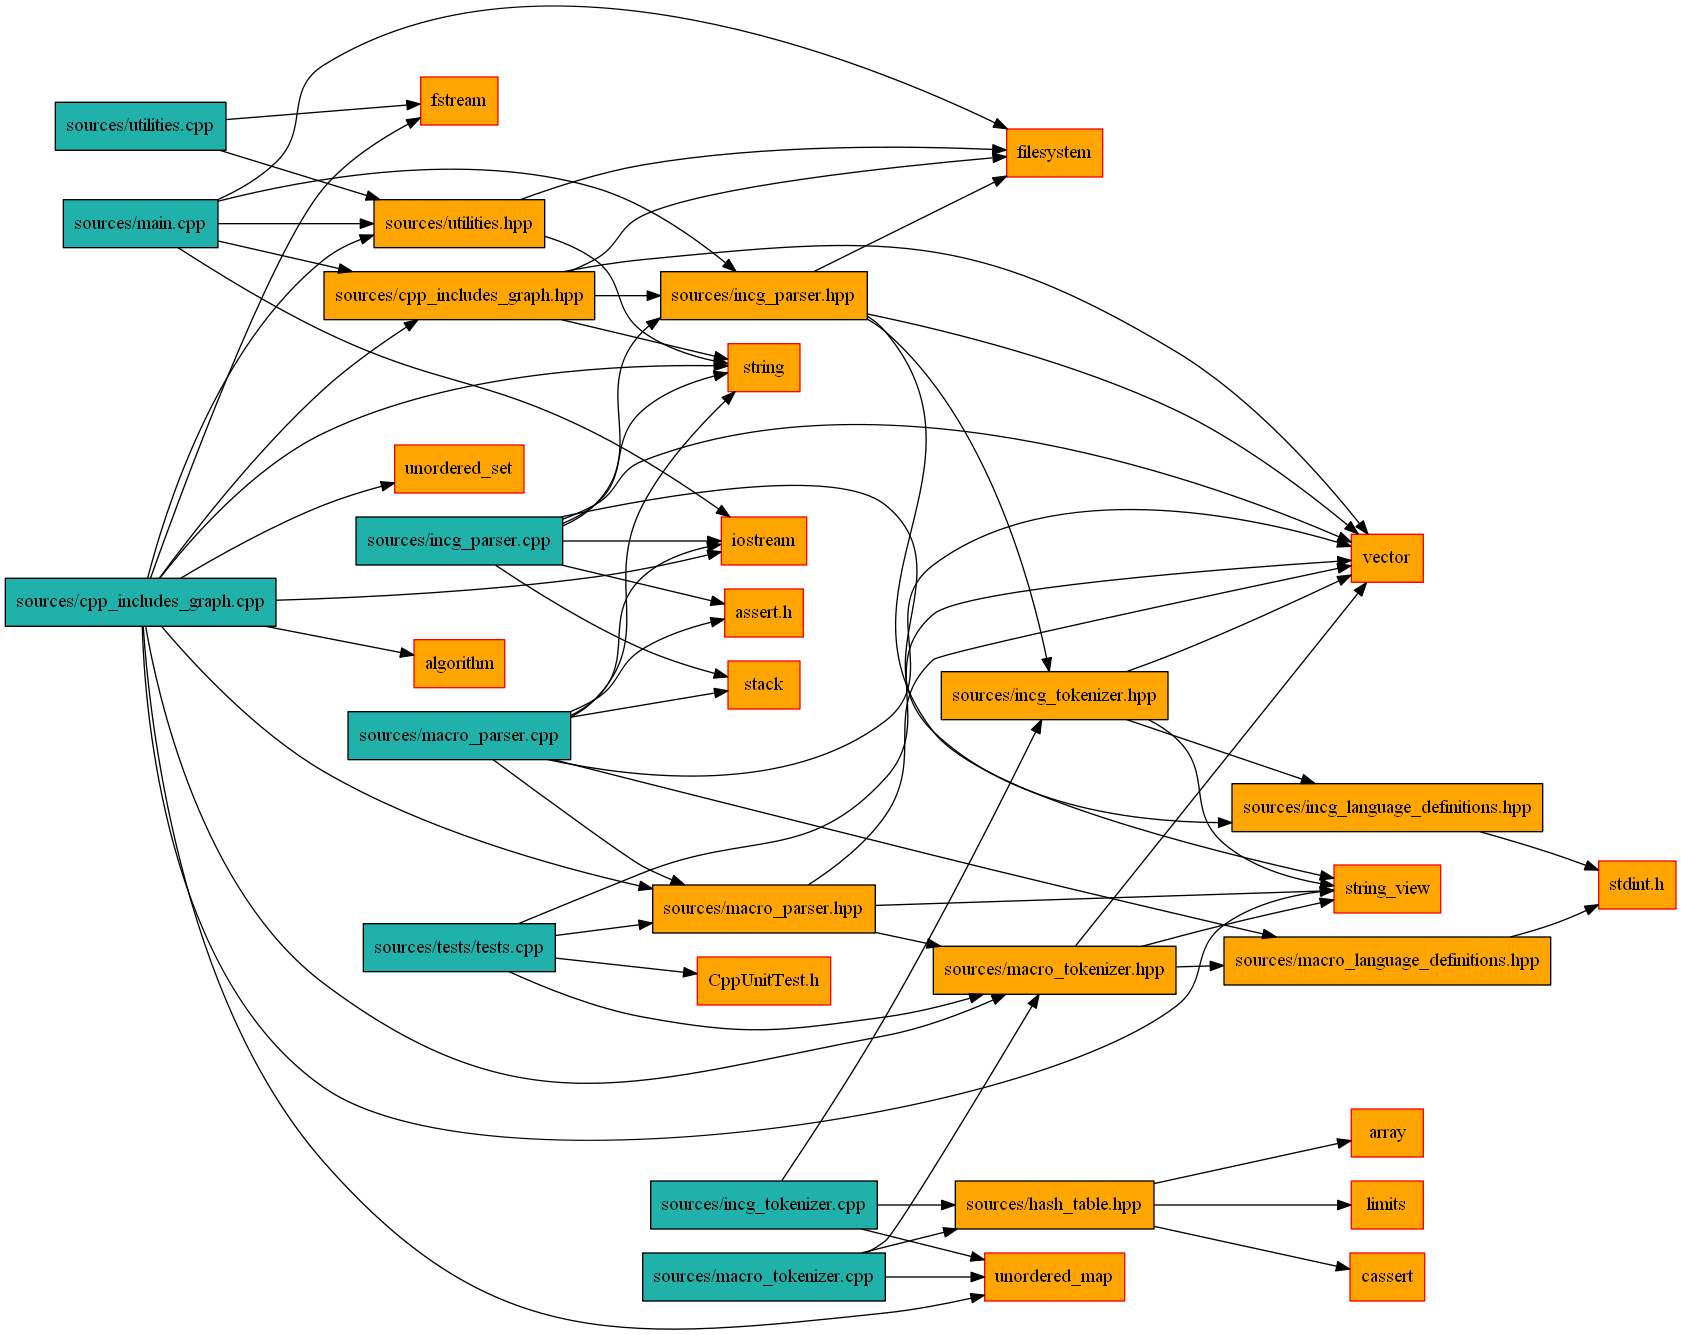
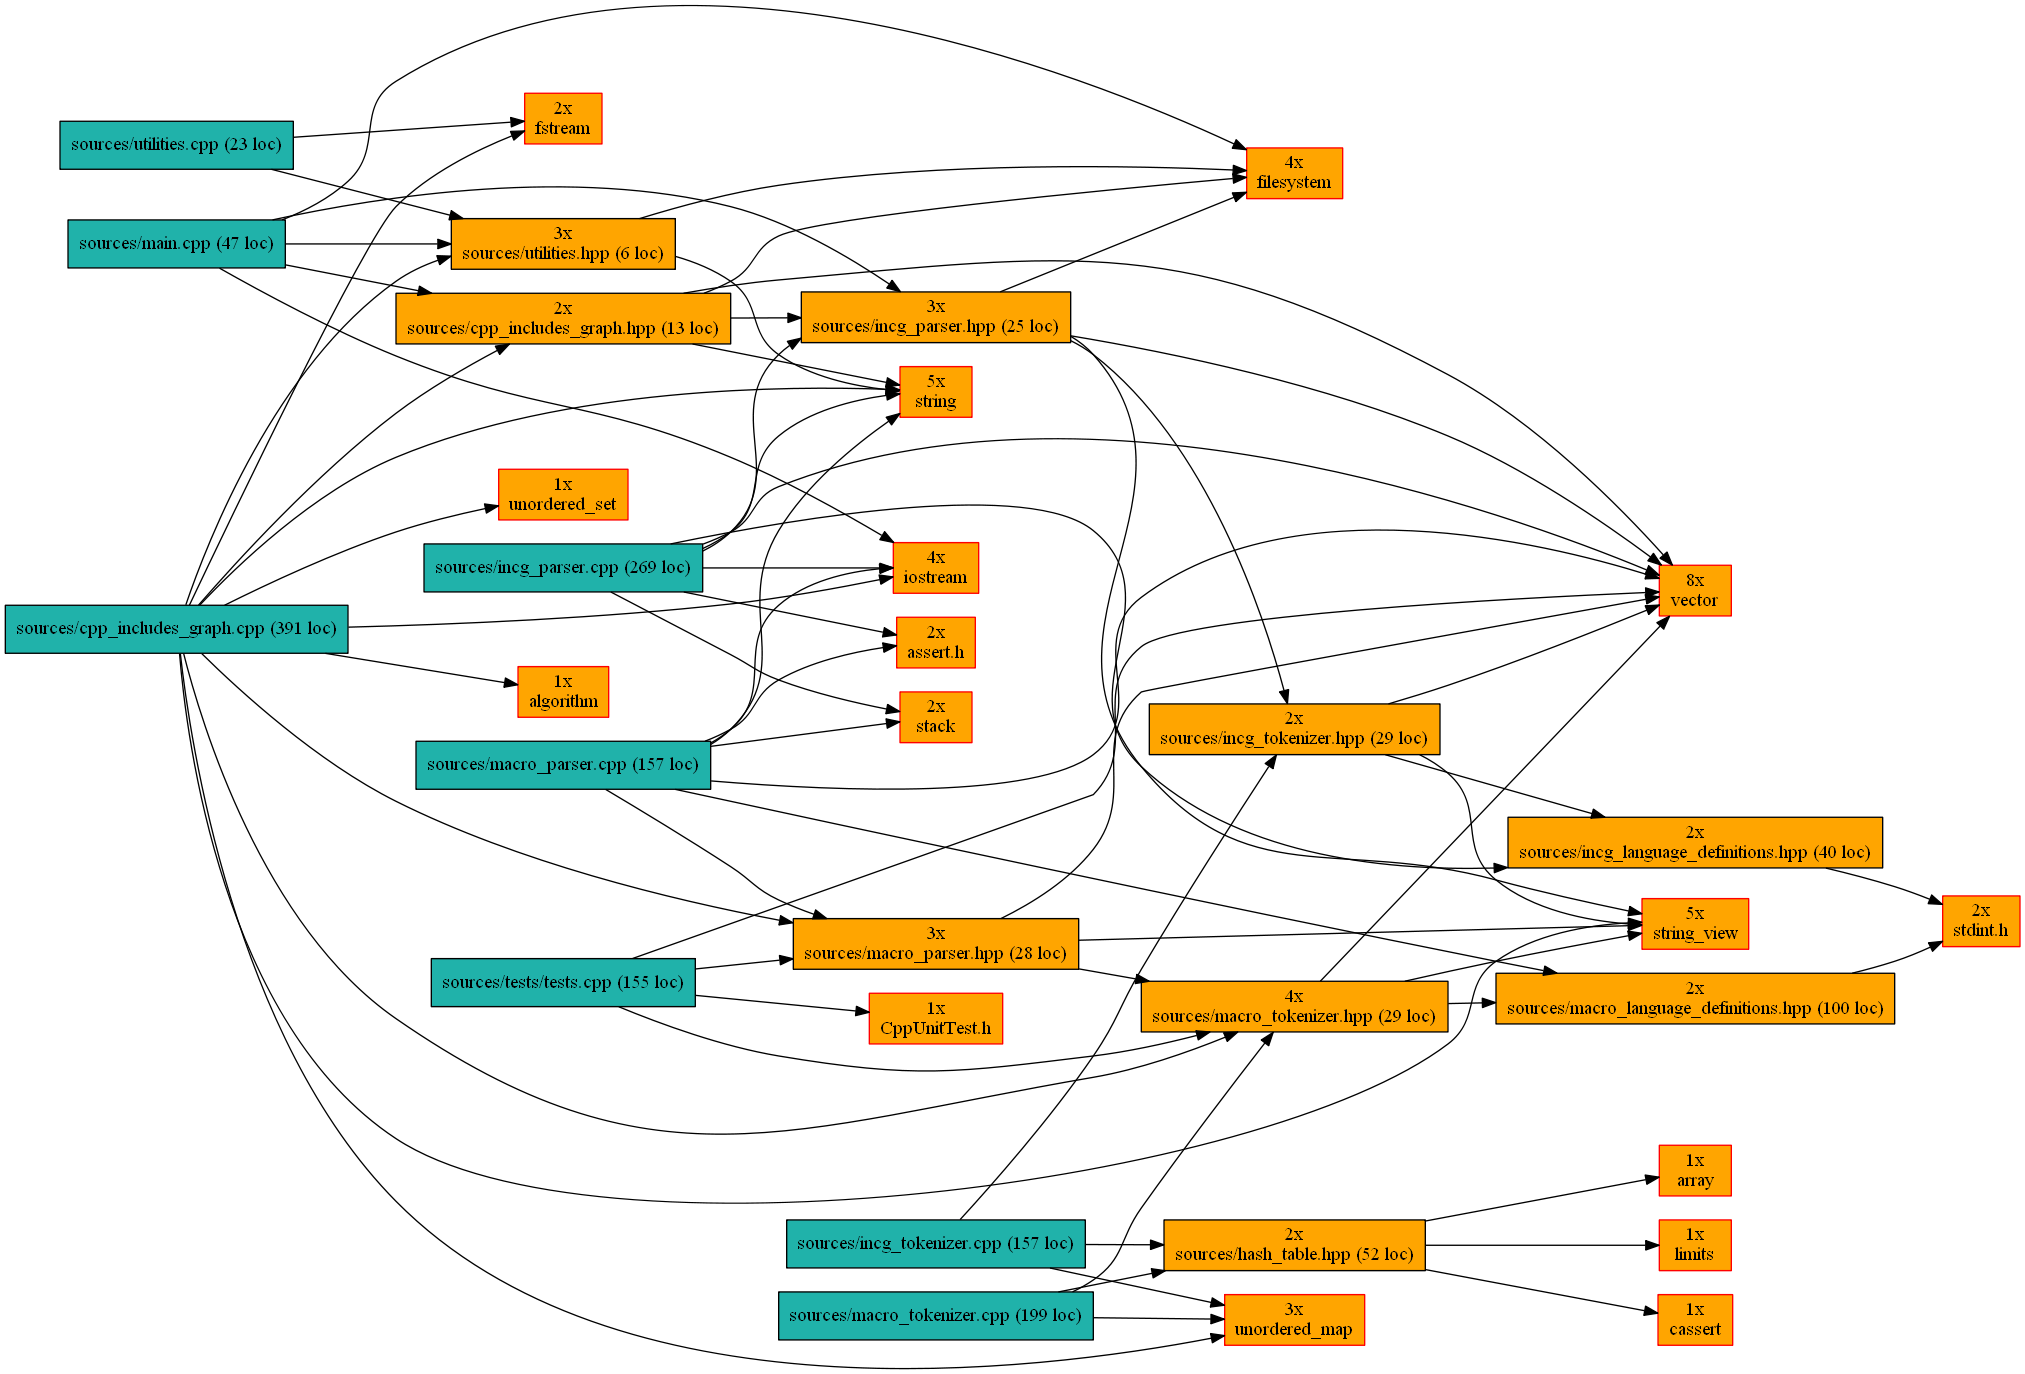
Few improvements on the output.

diff --git a/sources/cpp_includes_graph.cpp b/sources/cpp_includes_graph.cpp
@@ -91,9 +91,6 @@ static void get_includes(File_Node* node, std::vector<std::string_view>& include
 	std::vector<macro::Token>	tokens;
 	macro::Macro_Parsing_Result	parsing_result;
 
-	if (node->path.filename() == "glm.hpp")
-		int foo = 1;
-
 	if (read_all_file(node->path, node->string_views_buffer) == false) {
 		return;
 	}
@@ -171,8 +168,12 @@ static void generate_includes_graph(const incg::Project& project, const fs::path
 
 		if (it != result.nodes.end())	// No need to create the node as it already exist
 		{
-			it->second->parents.push_back(parent);
-			parent->children.push_back(it->second);	// Simply link it to his new parent (inlcuder)
+			File_Node* node = it->second;
+
+			node->nb_inclusions++;
+			node->parents.push_back(parent);
+
+			parent->children.push_back(node);	// Simply link it to his new parent (inlcuder)
 		}
 		else
 		{
@@ -183,6 +184,7 @@ static void generate_includes_graph(const incg::Project& project, const fs::path
 			node->path = header_path;
 			node->file_type = File_Type::header;
 			node->file_found = file_found;
+			node->nb_inclusions++;
 			node->parents.push_back(parent);
 
 			parent->children.push_back(node);
@@ -219,7 +221,17 @@ static void print_node(std::ofstream& stream, File_Node* node)
 		background_color = "orange";
 	}
 
-	stream << "\t" << node->unique_name << " [label=\"" << node->label << "\" shape=box, style=filled, color=" << border_color << ", fillcolor=" << background_color << "]" << std::endl;
+	std::string label;
+
+	if (node->file_type == File_Type::header) {
+		label += std::to_string(node->nb_inclusions) + "x\n";
+	}
+	label += node->label;
+	if (node->nb_lines) {
+		label += " (" + std::to_string(node->nb_lines) + " loc)";
+	}
+
+	stream << "\t" << node->unique_name << " [label=\"" << label << "\" shape=box, style=filled, color=" << border_color << ", fillcolor=" << background_color << "]" << std::endl;
 	for (File_Node* child_node : node->children) {
 		stream << "\t" << node->unique_name << " -> " << child_node->unique_name << std::endl;
 		print_node(stream, child_node);
@@ -235,50 +247,84 @@ static void	generate_includes_graph(const incg::Project& project, const fs::path
 	std::string		dot_filepath;
 	std::string		png_filepath;
 
-	dot_filepath = output_folder.generic_string() + "/" + std::string(project.name) + ".dot";
-	png_filepath = output_folder.generic_string() + "/" + std::string(project.name) + ".png";
-	dot_file.open(dot_filepath, std::fstream::out | std::fstream::binary);
-	if (dot_file.is_open() == false) {
-		std::cout << "Error: unable to open file " << dot_filepath << std::endl;
-		return;
-	}
-
-	std::cout << "Project: " << project.name << std::endl;
-
-	result.project = &project;
-
-	for (const fs::path& source_folder : project.sources_folders)
+	auto generating_dot_start = std::chrono::high_resolution_clock::now();
 	{
-		for (const auto& entry : fs::recursive_directory_iterator(source_folder))
+		dot_filepath = output_folder.generic_string() + "/" + std::string(project.name) + ".dot";
+		png_filepath = output_folder.generic_string() + "/" + std::string(project.name) + ".png";
+		dot_file.open(dot_filepath, std::fstream::out | std::fstream::binary);
+		if (dot_file.is_open() == false) {
+			std::cout << "Error: unable to open file " << dot_filepath << std::endl;
+			return;
+		}
+
+		std::cout << "Project: " << project.name << std::endl;
+
+		result.project = &project;
+
+		for (const fs::path& source_folder : project.sources_folders)
 		{
-			if (entry.is_regular_file() == false)
-				continue;
+			for (const auto& entry : fs::recursive_directory_iterator(source_folder))
+			{
+				if (entry.is_regular_file() == false)
+					continue;
 
-			if (get_file_type(entry.path()) != File_Type::source)	// Headers are children of sources files
-				continue;
+				if (get_file_type(entry.path()) != File_Type::source)	// Headers are children of sources files
+					continue;
 
-			// @TODO create nodes of header files directly here and add them to the result.nodes map but not to the result.root_nodes
-			// by doing it, it will reveal orphan header files in the graph (no source parent)
+				// @TODO create nodes of header files directly here and add them to the result.nodes map but not to the result.root_nodes
+				// by doing it, it will reveal orphan header files in the graph (no source parent)
 
-			File_Node* node = new File_Node;
+				File_Node * node = new File_Node;
 
-			node->unique_name = get_unique_name(result);
-			node->label = (source_folder.filename() / entry.path().lexically_relative(source_folder)).generic_string();	// @Warning we put the base of source directory to avoid conflicts if there is many similar source trees with a different root
-			node->path = entry.path();
-			node->file_type = File_Type::source;
-			node->file_found = true;
+				node->unique_name = get_unique_name(result);
+				node->label = (source_folder.filename() / entry.path().lexically_relative(source_folder)).generic_string();	// @Warning we put the base of source directory to avoid conflicts if there is many similar source trees with a different root
+				node->path = entry.path();
+				node->file_type = File_Type::source;
+				node->file_found = true;
 
-			result.nodes.insert(std::pair<std::string, File_Node*>(node->label, node));
+				result.nodes.insert(std::pair<std::string, File_Node*>(node->label, node));
 
-			generate_includes_graph(project, source_folder, node, result);
+				generate_includes_graph(project, source_folder, node, result);
 
-			result.root_nodes.push_back(node);
+				result.root_nodes.push_back(node);
+			}
+		}
+
+
+
+		// @TODO we also need to retrieve headers that are root nodes, stored in result.nodes
+		// I think that we can simply iterate over nodes in a non recursive way
+
+		// Generate the dot file
+		{
+			dot_file << "digraph {" << std::endl;
+			dot_file << "\t" "rankdir = LR" << std::endl;
+
+			for (size_t root_index = 0; root_index < result.root_nodes.size(); root_index++) {
+				print_node(dot_file, result.root_nodes[root_index]);
+			}
+
+			dot_file << "}" << std::endl;
 		}
 	}
+	auto generating_dot_end = std::chrono::high_resolution_clock::now();
+	std::chrono::duration<double> generating_dot_duration = generating_dot_end - generating_dot_start;
 
+	// Generate the graph image
+	auto generating_image_start = std::chrono::high_resolution_clock::now();
+	{
+		std::string	command_line;
+		int			command_line_result;
 
-	// @TODO we also need to retrieve headers that are root nodes, stored in result.nodes
-	// I think that we can simply iterate over nodes in a non recursive way
+		command_line = "dot.exe " + dot_filepath + " -Tpng -o " + png_filepath;
+		command_line_result = system(command_line.c_str());
+		if (command_line_result != 0) {
+			std::cerr << "Command line : \"" << command_line << "\" failed." << std::endl
+				<< "Do you have installed Graphiz tools and put the bin folder into the PATH environment variable? [You can download it at: https://www.graphviz.org/]." << std::endl;
+		}
+	}
+	auto generating_image_end = std::chrono::high_resolution_clock::now();
+	std::chrono::duration<double> generating_image_duration = generating_image_end - generating_image_start;
 
 	// Print some stats
 	{
@@ -310,35 +356,16 @@ static void	generate_includes_graph(const incg::Project& project, const fs::path
 			}
 		}
 
-		std::cout << "\t" "Number of source files: " << nb_source_files << " and " << nb_source_lines << " lines of code." << std::endl;
-		std::cout << "\t" "Number of header files: " << nb_header_files << " (with " << nb_header_not_found << " not found)" << " and " << nb_header_lines << " lines of code." << std::endl;
-		std::cout << "\t" "Number of line ratio (header / source): " << std::setprecision(2) << (double)nb_header_lines / (double)nb_source_lines << std::endl;
+		std::cout << std::fixed << std::setprecision(3);
+
+		std::cout << "\t" "Dot file generated in: " << generating_dot_duration.count() << "s" << std::endl;
+		std::cout << "\t" "Image generated in: " << generating_image_duration.count() << "s" << std::endl;
 		std::cout << std::endl;
-	}
 
-	// Generate the dot file
-	{
-		dot_file << "digraph {" << std::endl;
-		dot_file << "\t" "rankdir = LR" << std::endl;
-
-		for (size_t root_index = 0; root_index < result.root_nodes.size(); root_index++) {
-			print_node(dot_file, result.root_nodes[root_index]);
-		}
-
-		dot_file << "}" << std::endl;
-	}
-
-	// Generate the graph image
-	{
-		std::string	command_line;
-		int			command_line_result;
-
-		command_line = "dot.exe " + dot_filepath + " -Tpng -o " + png_filepath;
-		command_line_result = system(command_line.c_str());
-		if (command_line_result != 0) {
-			std::cerr << "Command line : \"" << command_line << "\" failed." << std::endl
-				<< "Do you have installed Graphiz tools and put the bin folder into the PATH environment variable? [You can download it at: https://www.graphviz.org/]." << std::endl;
-		}
+		std::cout << "\t" "Source files: " << nb_source_files << " - Lines of code: " << nb_source_lines << " - Average lines of code per file: " << (double)nb_source_lines / (double)nb_source_files << std::endl;
+		std::cout << "\t" "Header files: " << nb_header_files << " - Not found: " << nb_header_not_found << " - Lines of code: " << nb_header_lines << " - Average lines of code per file: " << (double)nb_header_lines / (double)nb_header_files << std::endl;
+		std::cout << "\t" "Total lines of code: " << nb_source_lines + nb_header_lines << " - Number of lines ratio (header / source): " << (double)nb_header_lines / (double)nb_source_lines << std::endl;
+		std::cout << std::endl;
 	}
 }
 

diff --git a/README.md b/README.md
@@ -19,7 +19,10 @@ Some other tools like https://include-what-you-use.org/ seems to me much more co
 * cpp17 (actually only visual studio 2019 is supported)
 
 ## Example
+Configuration file looks like:
+![alt text](https://github.com/Flamaros/cpp-includes-graph/blob/master/example/results/projects.incg)
 
+And the result:
 ![alt text](https://github.com/Flamaros/cpp-includes-graph/blob/master/example/results/cpp-includes-graph.png)
 
 ## TODO
